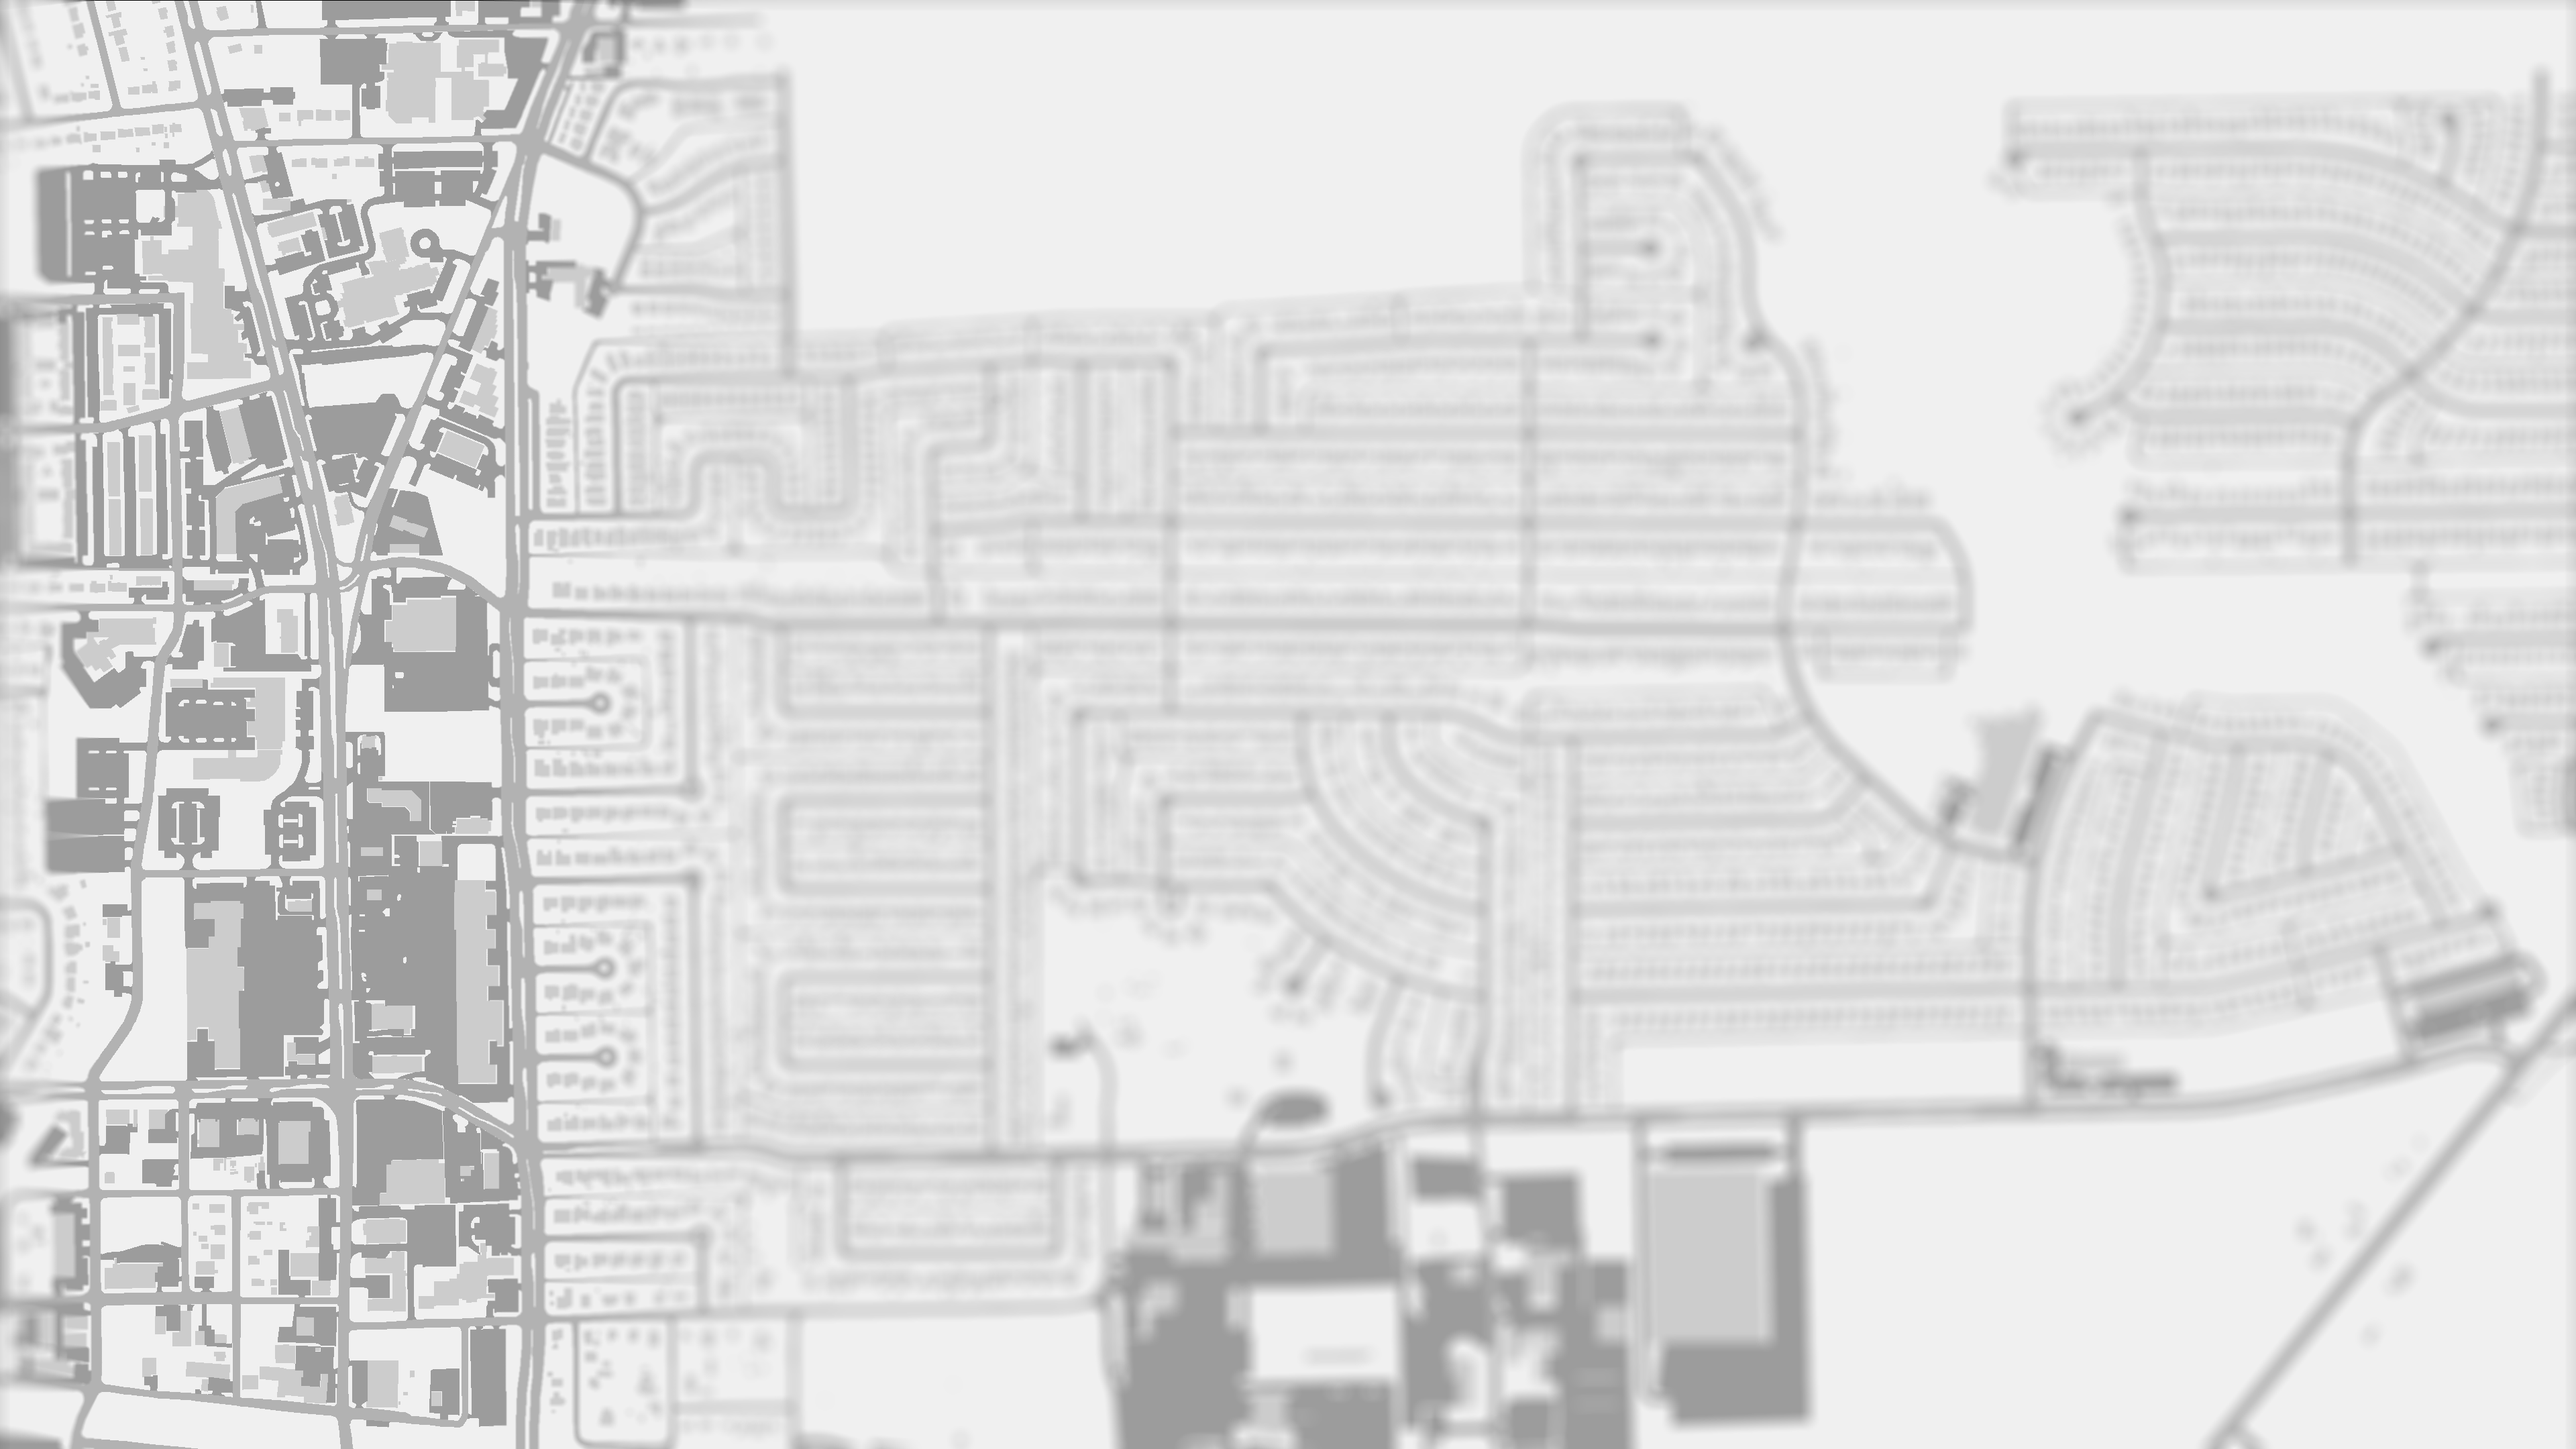
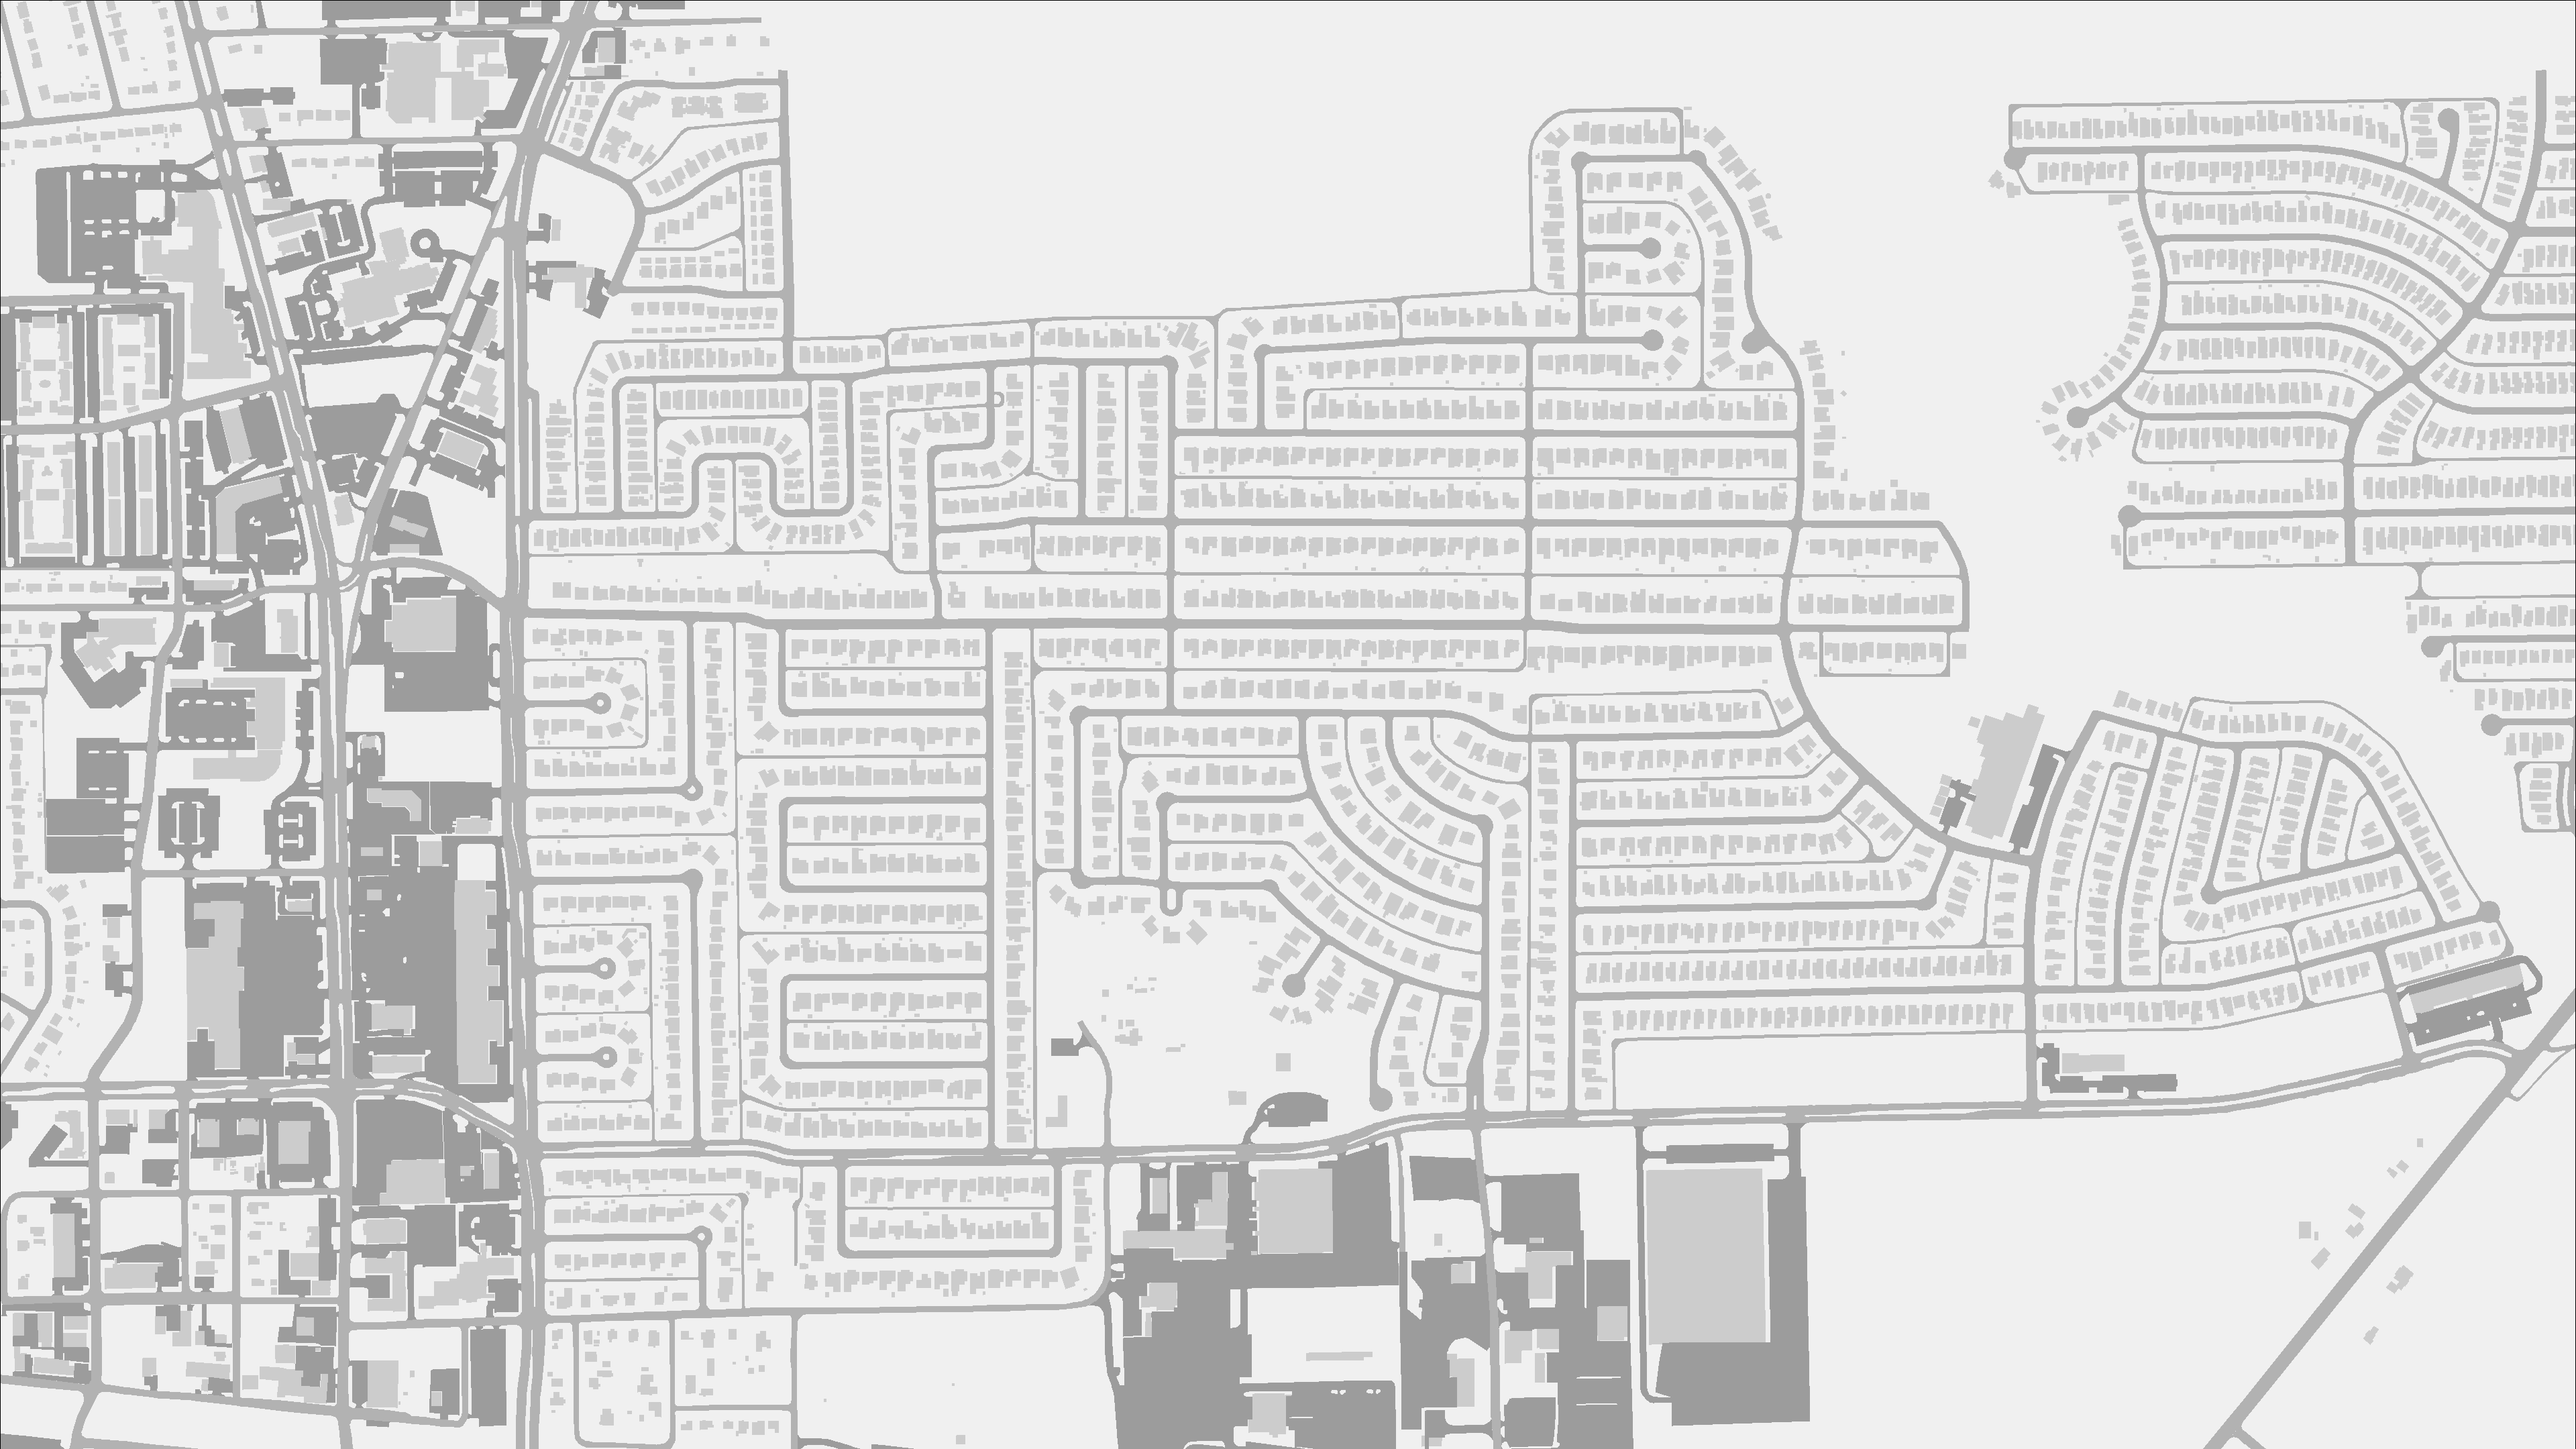
Fixed background image url

diff --git a/scripts/mark-buie.css b/scripts/mark-buie.css
@@ -57,7 +57,7 @@ h1 {
 }
 
 .cnt_about {
- 	background-image: url("../img/map.png");
+ 	background-image: url("../img/map3.png");
  	background-repeat: no-repeat;
  	background-size: cover;
  	background-position: left center;
